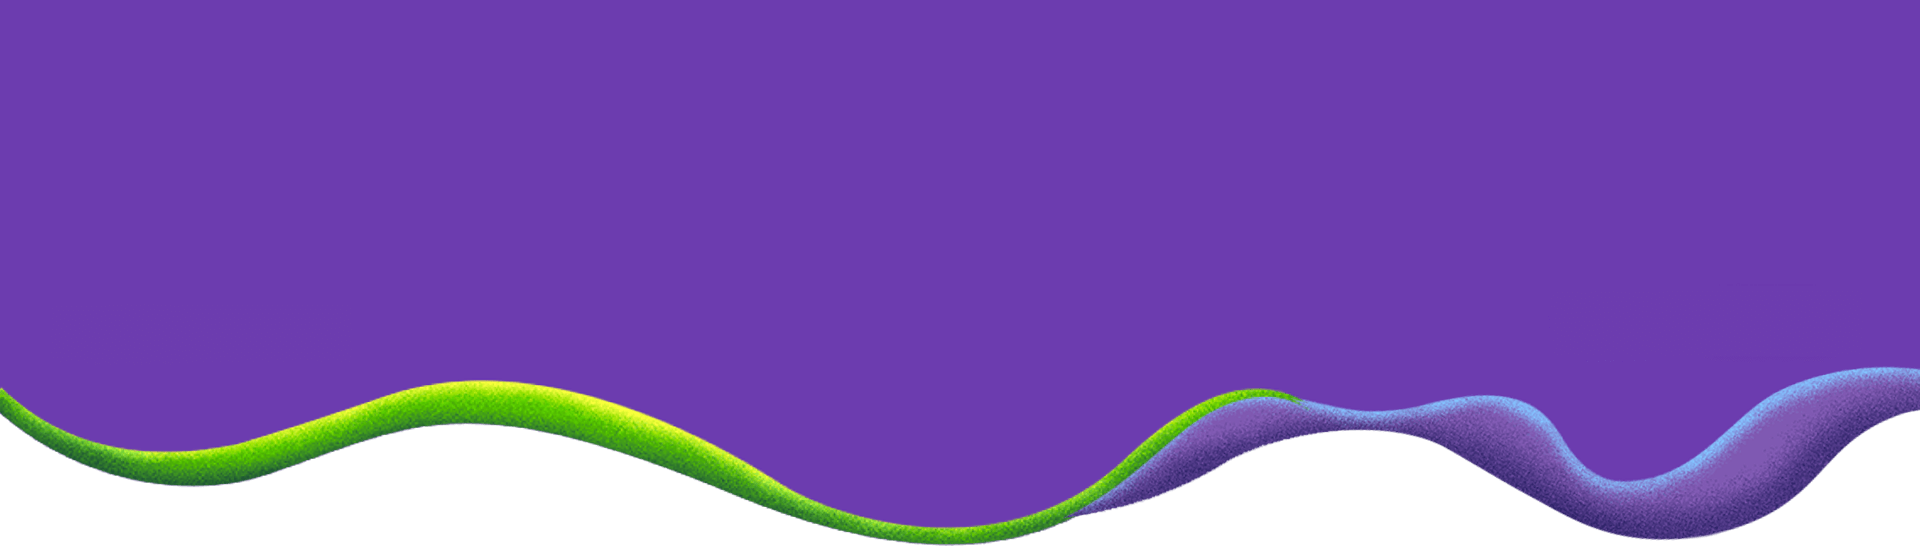
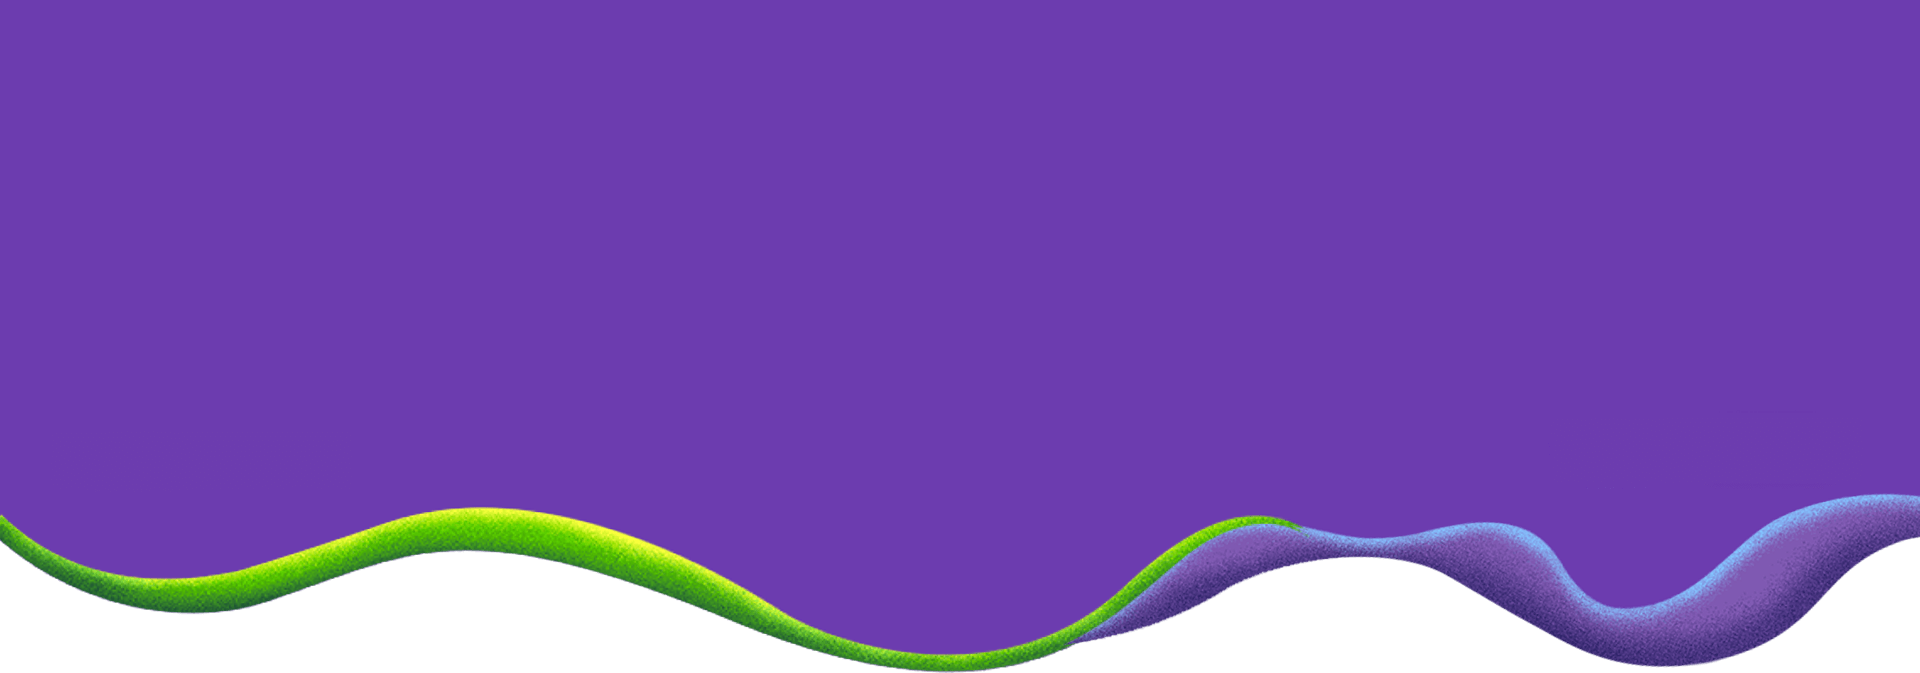
fix navbar

Changed region(s): [[0.0, 0.6538, 1.0, 1.0]]

diff --git a/src/components/Hero.jsx b/src/components/Hero.jsx
@@ -30,13 +30,13 @@ const Hero = () => {
       <Navbar />
       {state ? (
         <img
-          className="w-full absolute top-0 md:-top-16 lg:-top-40 z-[39] object-fill"
+          className="w-full absolute top-0 md:-top-16 lg:-top-64 z-[39] object-fill"
           src={NavDark}
           alt="nav background"
         />
       ) : (
         <img
-          className="w-full absolute top-14 md:top-0 lg:top-0 -z-50 object-fill"
+          className="w-full absolute top-20 md:top-0 lg:top-0 -z-50 object-fill"
           src={NavBg}
           alt="nav background"
         />
